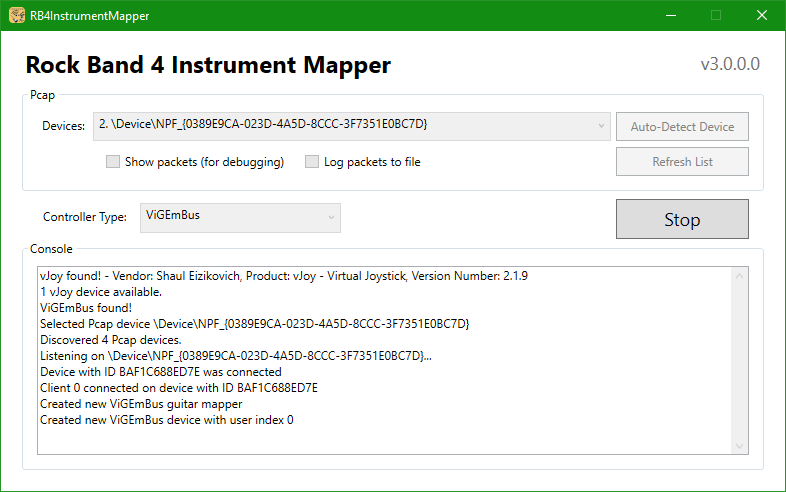
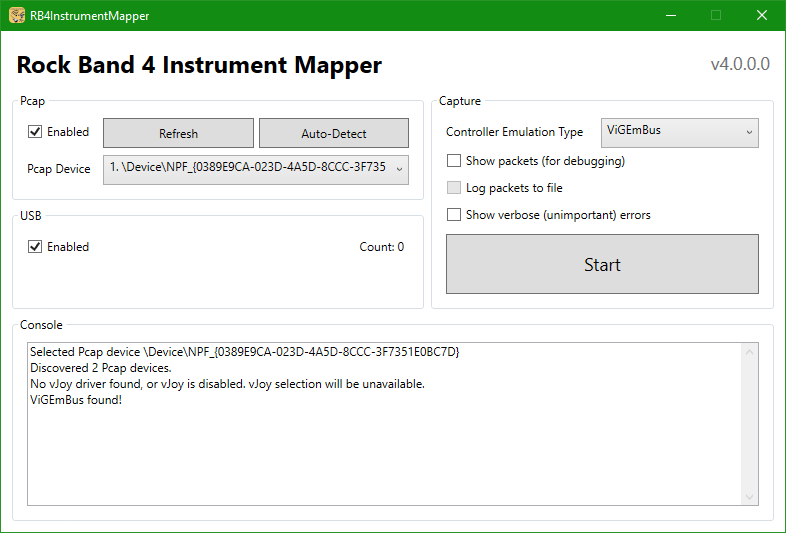
Update readme

diff --git a/README.md b/README.md
@@ -1,20 +1,27 @@
 # RB4InstrumentMapper
 
-A program that maps packets from Xbox One Rock Band 4 instruments to virtual controllers, for use in [Clone Hero](https://clonehero.net/).
+A program that maps packets from Xbox One instrument peripherals to virtual controllers, for use in games such as [Clone Hero](https://clonehero.net/).
 
 ![RB4InstrumentMapper Application Screenshot](/Docs/Images/ProgramScreenshot.png "RB4InstrumentMapper Application Screenshot")
 
-Both guitars and drums are supported through an Xbox One wireless receiver.
+## Requirements
 
-## Software Requirements
+### Software
 
 - Windows 10 64-bit
-- [WinPCap](https://www.winpcap.org/install/bin/WinPcap_4_1_3.exe)
+- [WinPCap](https://www.winpcap.org/install/bin/WinPcap_4_1_3.exe) (for wireless peripherals)
 - [ViGEmBus](https://github.com/ViGEm/ViGEmBus/releases/latest) or [vJoy](https://github.com/jshafer817/vJoy/releases/latest)
+
+### Hardware
+
+- Xbox One wireless receiver (for wireless peripherals)
+  - This is *not* the same as Xbox 360 wireless receivers! You must get an Xbox One (or just "Xbox") receiver, such as [this one](https://amzn.to/2W7qQbt). Third-party receivers are untested, and they will not be deliberately supported.
 
 ## Hardware Notes
 
-Jaguar guitars require a firmware update in order to connect to the receiver.
+All Xbox One instruments are supported (RB4 guitars/drums, GHL guitar), along with the RB4 wireless legacy adapter.
+
+Jaguar guitars require a firmware update in order to connect to Xbox One receivers.
 
 - [Instructions](https://bit.ly/2UHzonU)
 - [Firmware installer backup](https://drive.google.com/file/d/1DQxkkbBfi-UOqdX6vp5TaX6F2N2OBDra/view?usp=drivesdk)
@@ -29,37 +36,75 @@ Some guitars/drumkits might not sync properly when using just the sync button. T
 
 ## Installation
 
-1. Install [WinPCap](https://www.winpcap.org/install/bin/WinPcap_4_1_3.exe).
-2. Install [ViGEmBus](https://github.com/ViGEm/ViGEmBus/releases/latest) (recommended) or [vJoy](https://github.com/jshafer817/vJoy/releases/latest).
-   - If you installed vJoy, configure it:
-     1. Open your Start menu, find the `vJoy` folder, and open the `Configure vJoy` program inside it.
-     2. Configure one device for each one of your guitars/drumkits, using these settings:
-        - Number of Buttons: 16
-        - POV Hat Switch: Continuous, POVs: 1
-        - Axes: `X`, `Y`, `Z`
+### If you are using wireless peripherals:
 
-        ![vJoy Configuration Screenshot](/Docs/Images/vJoyConfiguration.png "vJoy Configuration Screenshot")
+1. Install [WinPCap](https://www.winpcap.org/install/bin/WinPcap_4_1_3.exe)
 
-     3. Click Apply.
-   - If you installed ViGEmBus, there's no configuration required. Outputs for guitars and drums will match that of their Xbox 360 counterparts.
-3. Restart your PC.
+### If you are using wired (USB) peripherals:
+
+1. Download [Zadig](https://zadig.akeo.ie/) and run it.
+2. Under Options, select `List All Devices`.
+3. Select your device, then change the box to the right of the green/orange arrow to the `WinUSB` driver. Things should look like the example below:
+
+   ![Zadig Example](/Docs/Images/Zadig.png "Zadig Example")
+
+4. Hit `Replace Driver`, and repeat for any additional peripherals you wish to use.
+
+- A future version will make this a little more streamlined and allow you to swap the driver directly in the program.
+
+### Next, install a controller emulation driver:
+
+- Both of these can be installed simultaneously if desired, however RB4InstrumentMapper will only use one of them at a time.
+- Option 1: [ViGEmBus](https://github.com/ViGEm/ViGEmBus/releases/latest)
+  - Recommended, as it requires no configuration and is significantly easier to use. All device outputs will match those of their Xbox 360 counterparts.
+- Option 2: [vJoy](https://github.com/jshafer817/vJoy/releases/latest)
+  - Supported as an alternative to ViGEmBus, in case of issues. Requires some setup:
+  1. Download and install vJoy.
+  2. After installing, open your Start menu, find the `vJoy` folder, and open the `Configure vJoy` program inside it.
+  3. Configure one device for each one of your controllers, using these settings:
+     - Number of Buttons: 16
+     - POV Hat Switch: Continuous, POVs: 1
+     - Axes: `X`, `Y`, `Z`
+
+     ![vJoy Configuration Screenshot](/Docs/Images/vJoyConfiguration.png "vJoy Configuration Screenshot")
+
+  4. Click Apply.
+
+### Finally, restart your PC.
+
+Things will probably work fine if you don't, but it's generally safest to restart regardless.
 
 ## Usage
 
-1. Select your Xbox One receiver from the dropdown menu.
-   - Xbox receivers should be detected automatically.
-   - If they are not, click the `Auto-Detect Pcap` button and follow its instructions.
-2. Select either vJoy or ViGEmBus in the Controller Type dropdown.
-3. Connect your instruments if you haven't yet.
-4. Click the Start button. Devices will be detected automatically.
-5. Map the controls for each instrument in Clone Hero:
-   1. Press Space on the main menu.
-   2. Click the Assign Controller button and press a button on the instrument for it to be assigned.
-   3. Click the slots in the Controller column to map each of the controls.
-   4. Repeat for each connected device.
-   5. Click `Done`.
+### If you are using wireless devices (Pcap):
 
-Selections are saved and should persist across program sessions.
+- Ensure the `Enable` checkbox under the Pcap group is checked.
+- Select your Xbox One receiver from the dropdown menu.
+  - Xbox receivers should be detected automatically. If they are not, click the `Auto-Detect Pcap` button and follow its instructions.
+- **Do not connect your instruments yet!** In order for things to work correctly, you must hit Start before connecting them.
+  - A best effort is made for devices connected before starting, but correct behavior cannot be ensured for them.
+
+### If you are using wired devices (USB):
+
+- Ensure the `Enable` checkbox under the USB group is checked.
+- **Ensure you have installed WinUSB on the devices you want to use! They will not be recognized otherwise!**
+- Devices will be detected automatically as they are connected/removed.
+
+### Starting the program
+
+Select either ViGEmBus or vJoy in the Controller Type dropdown, then hit the Start button.
+
+- You may now connect any wireless devices you wish to use.
+
+### Mapping your controls in Clone Hero
+
+Now that the program is running, map your controls for each instrument in Clone Hero:
+
+1. Press Space on the main menu.
+2. Click Assign Controller and press a button on the device for it to be assigned.
+3. Click the slots in the Controller column to map each of the controls.
+4. Repeat for each connected device.
+5. Click `Done`.
 
 ## Packet Logs
 
@@ -73,15 +118,17 @@ In the case that the program crashes, an error log is saved to a `RB4InstrumentM
 
 ## References
 
+Predecessors:
+
 - [GuitarSniffer repository](https://github.com/artman41/guitarsniffer)
 - [DrumSniffer repository](https://github.com/Dunkalunk/guitarsniffer)
 
-Packet Data:
+Packet data:
 
 - [GuitarSniffer guitar packet logs](https://1drv.ms/f/s!AgQGk0OeTMLwhA-uDO9IQHEHqGhv)
 - GuitarSniffer guitar packet spreadsheets: [New](https://docs.google.com/spreadsheets/d/1ITZUvRniGpfS_HV_rBpSwlDdGukc3GC1CeOe7SavQBo/edit?usp=sharing), [Old](https://1drv.ms/x/s!AgQGk0OeTMLwg3GBDXFUC3Erj4Wb)
-
-Additional documentation is available in the [PlasticBand documentation repository](https://github.com/TheNathannator/PlasticBand).
+- [rb4.app's Javascript source](https://rb4.app/js/app.js)
+- Original research, found in the [PlasticBand documentation repository](https://github.com/TheNathannator/PlasticBand).
 
 ## Building
 
